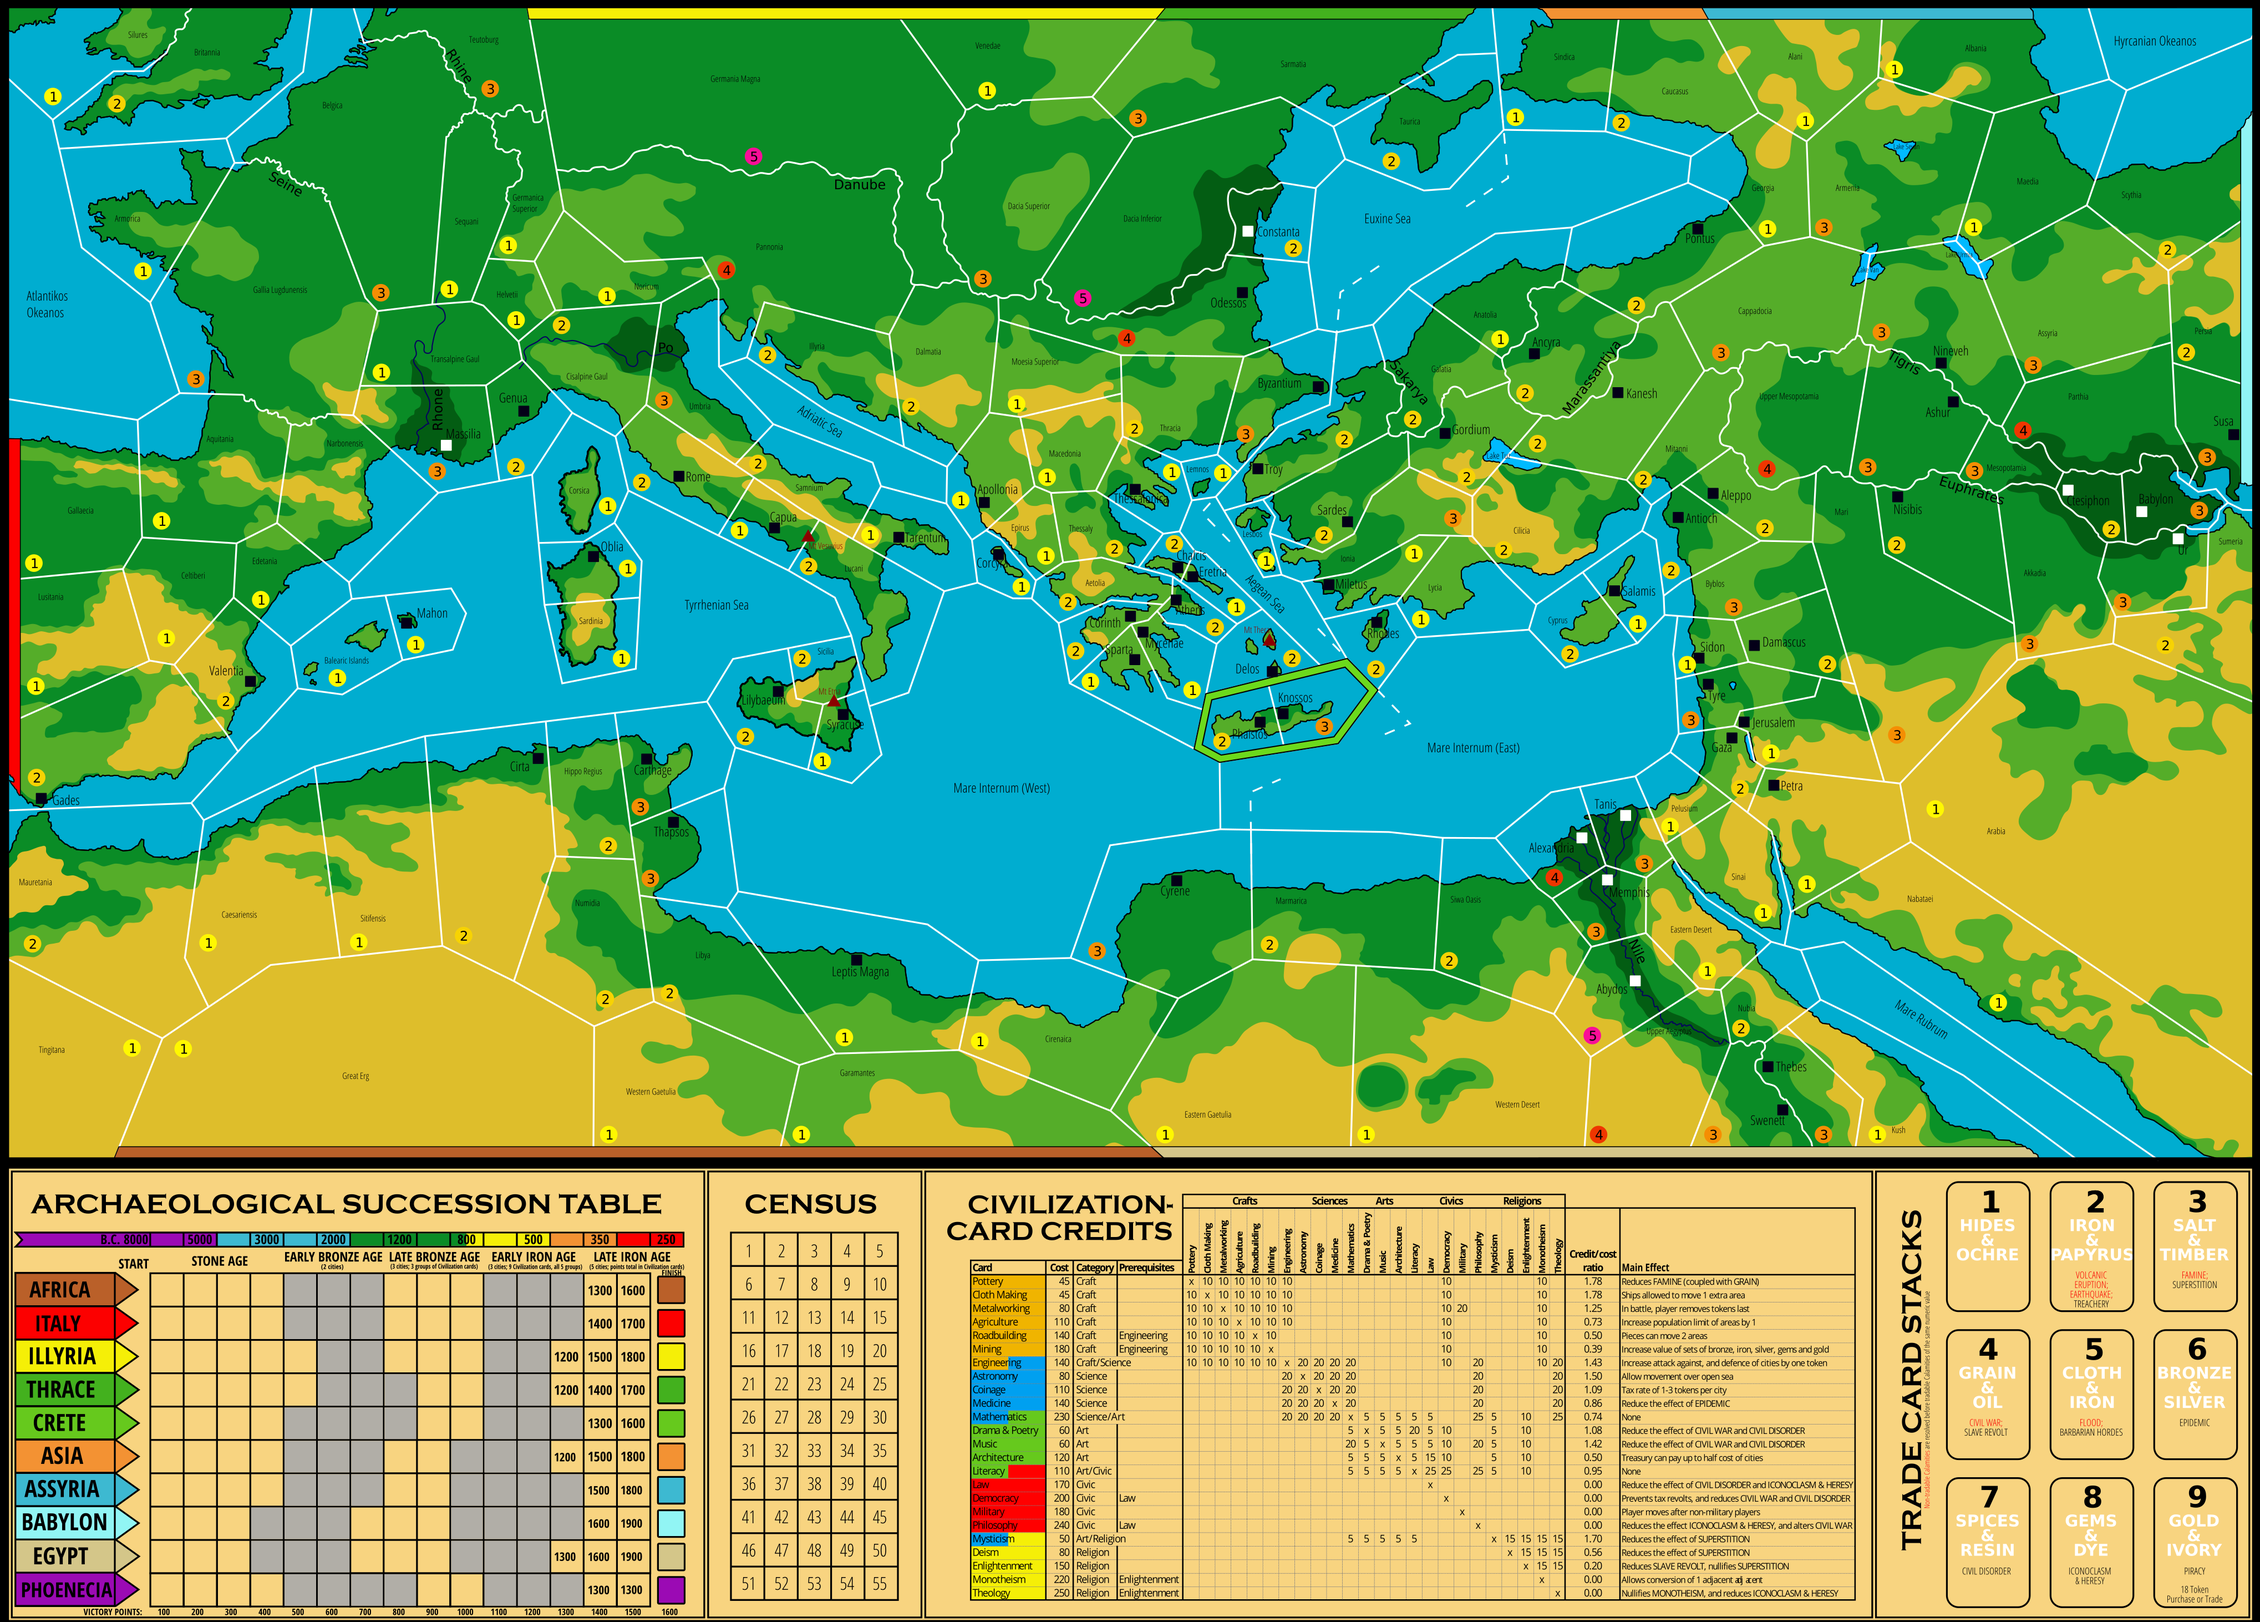
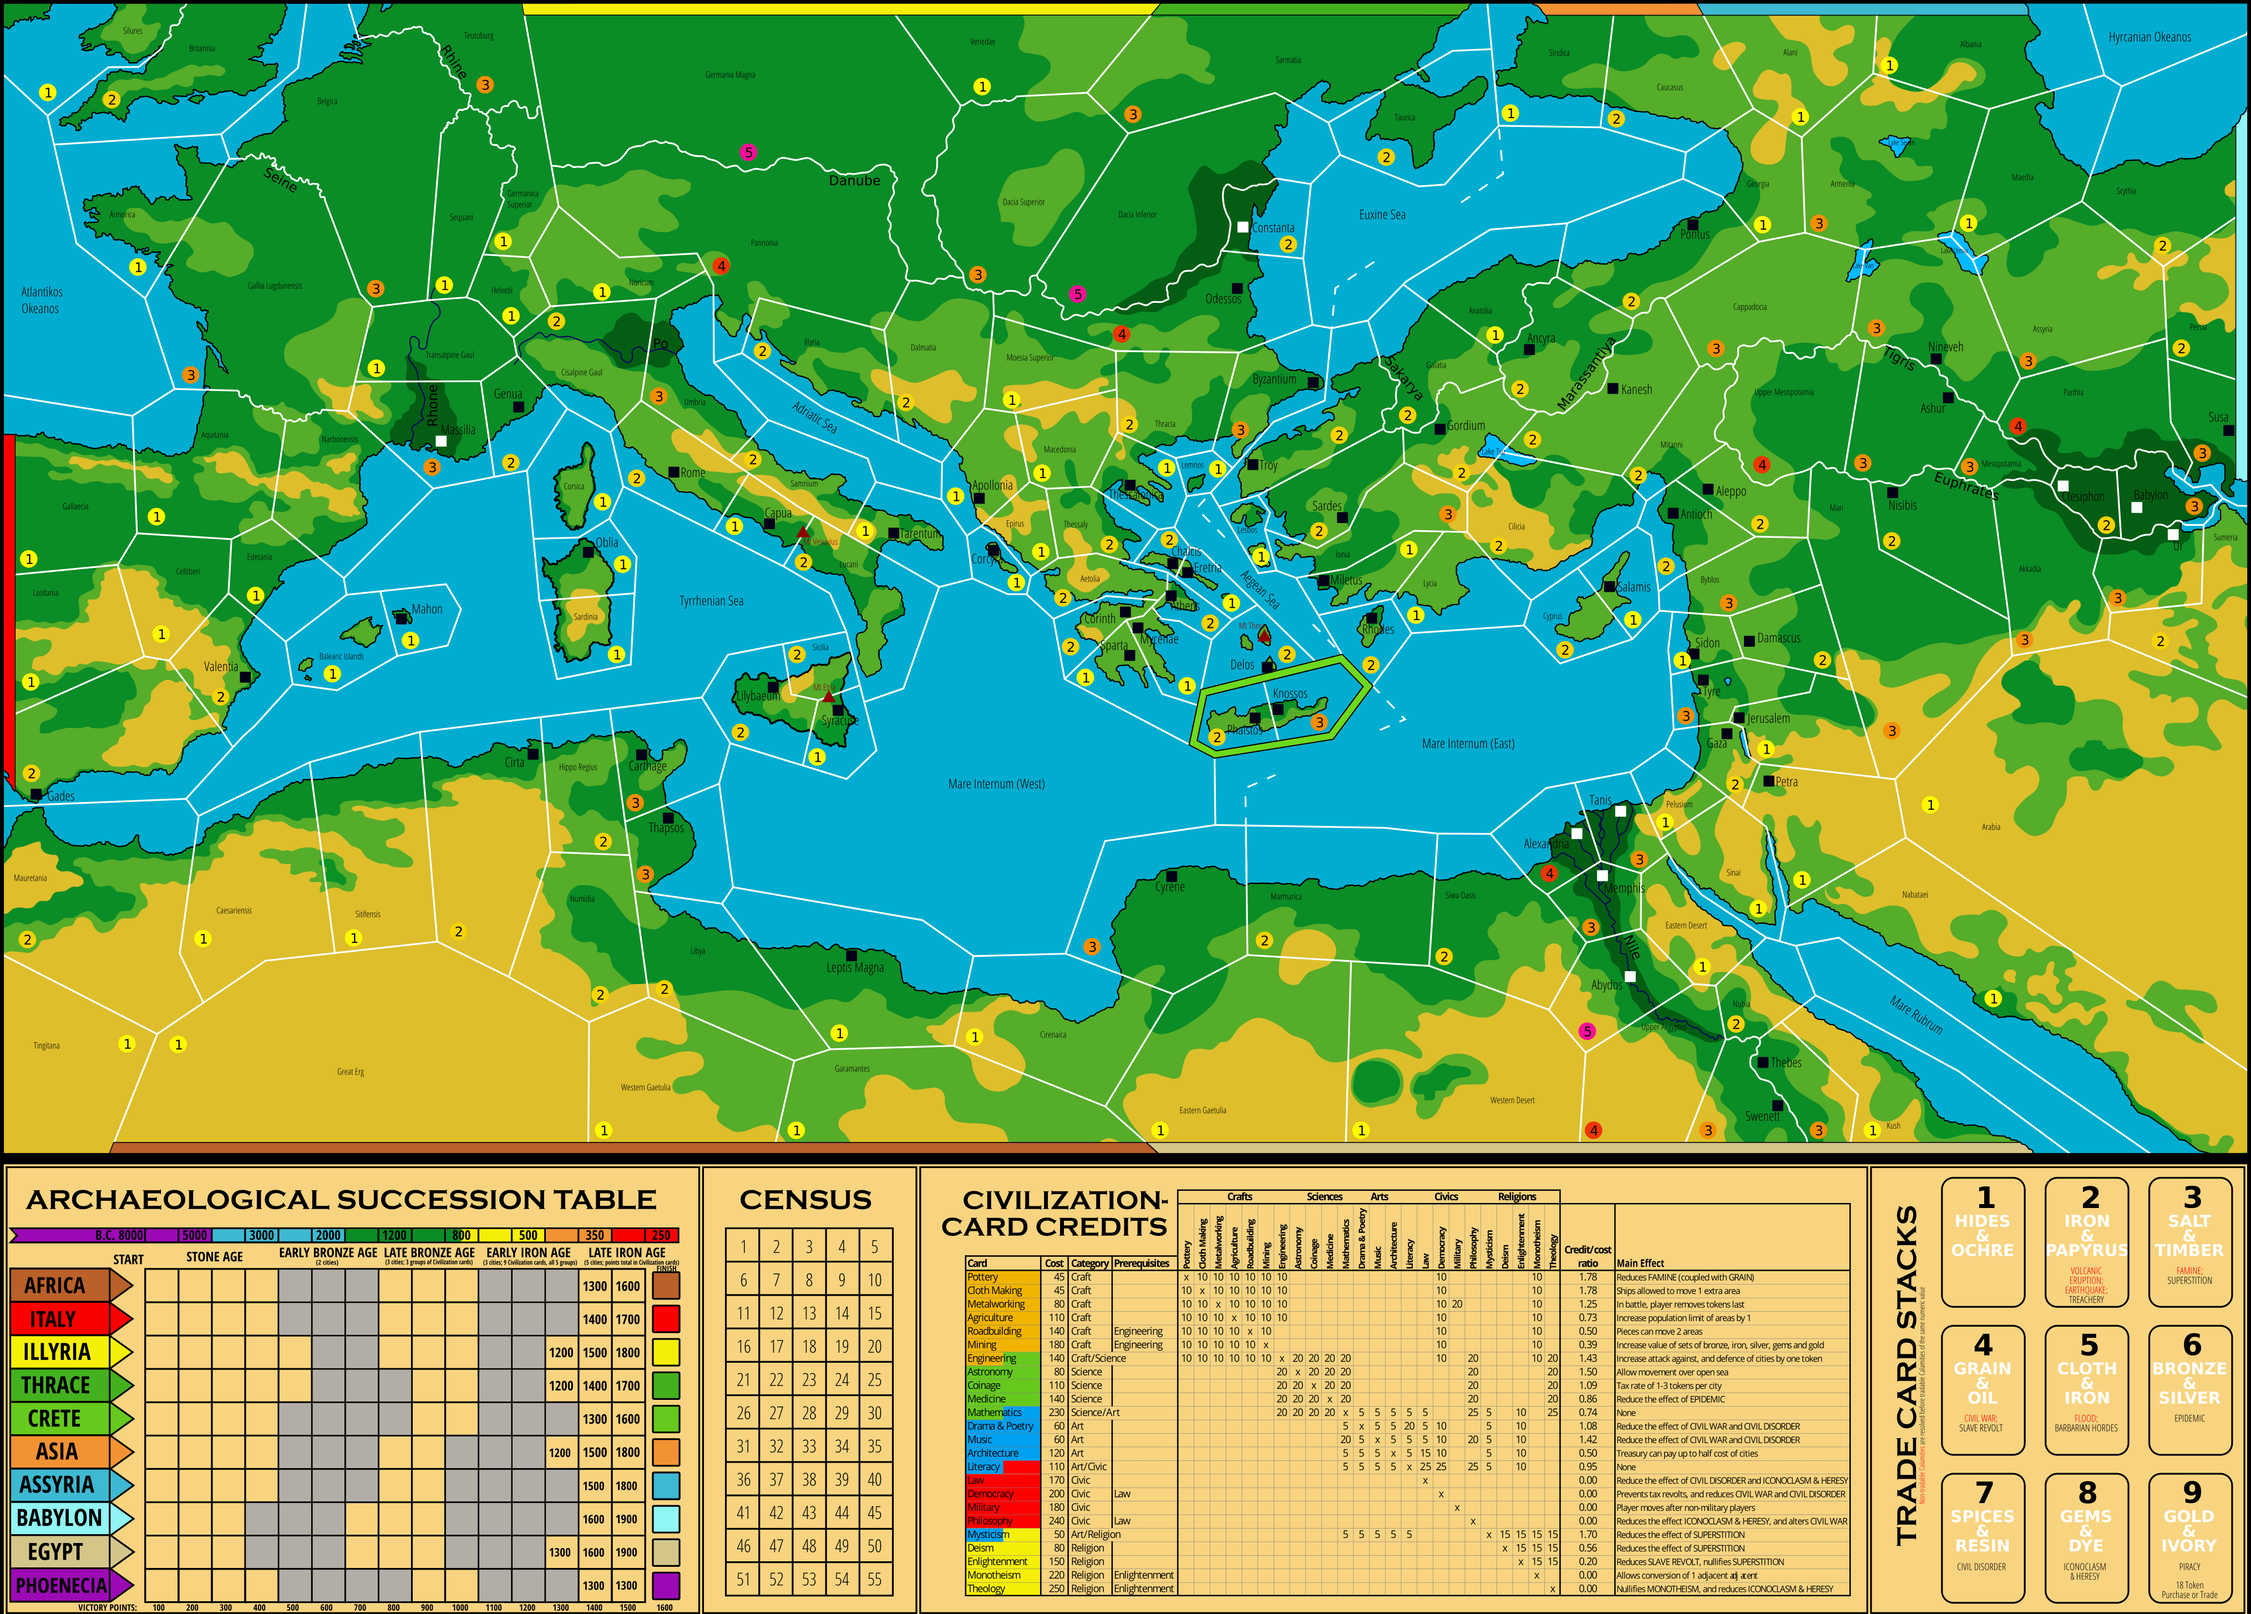
Improved the ast token code for re-usability. Added a spotter token to identify map locations. Fixed a coloring issue (arts and sciences were switched)

diff --git a/advciv.py b/advciv.py
@@ -2,16 +2,100 @@ from kivy.app import App
 from kivy.uix.boxlayout import BoxLayout
 from kivy.uix.scatter import Scatter
 from kivy.uix.label import Label
-from kivy.properties import NumericProperty
+from kivy.properties import NumericProperty, ListProperty
+from kivy.graphics.vertex_instructions import (Rectangle,
+                                               Ellipse,
+                                               Line)
+from kivy.graphics.context_instructions import Color
+from kivy.clock import Clock
+
+from math import sqrt
+
+map_locations = {'Great Erg': (680, 965),
+                 'Western Gaetulia': (1222, 931),
+                 'Garamantes': (1613, 897),
+                 'Leptis Magna': (1541, 1114),
+                 'Libya': (1256, 1137),
+                 'Numidia': (1018, 1195),
+                 'Thapsos': (1193, 1340),
+                 'Carthage': (1174, 1515),
+                 'Hippo Regius': (1021, 1452),
+                 'Cirta': (856, 1397),
+                 'Sitifensis': (645, 1359)}
+
+def map_to_window(map_pos):
+    app = App.get_running_app()
+    if not app.root:
+        return (0,0)
+    map_widget = app.root.ids['map']
+    window_pos = (map_widget.size[0]/4058.0*map_pos[0], map_widget.size[1]/2910.0*map_pos[1])
+    return window_pos
+
+def window_to_map(window_pos):
+    app = App.get_running_app()
+    map_widget = app.root.ids['map']
+    map_pos = (4058.0/map_widget.size[0]*window_pos[0], 2910.0/map_widget.size[1]*window_pos[1])
+    return map_pos
+
+def get_snap_pos(window_pos):
+    pos = window_to_map(window_pos)
+    territory, map_pos = min(map_locations.items(), key=lambda t: abs(sqrt((t[1][0]-pos[0])**2 + (t[1][1]-pos[1])**2)))
+    return territory, map_to_window(map_pos)
+
+class Spotter(Label):
+    def on_touch_up(self, touch):
+        res = super(Spotter, self).on_touch_up(touch)
+        if self.collide_point(*touch.pos):
+            map_pos = window_to_map(self.parent.pos)
+            print(f"{map_pos[0]:.1f},{map_pos[1]:.1f}")
+            if touch.is_double_tap:
+                territory, snap_pos = get_snap_pos(self.parent.pos)
+                self.parent.pos = snap_pos
+                print(f"Snapping to {territory}")
+        return res 
 
 class AstTokenWidget(Label):
     ast = NumericProperty(0)
+    track = NumericProperty(0)
+    color = ListProperty([0, 0, 0, 1])
+
+    def __init__(self, **kwargs):
+        super(AstTokenWidget, self).__init__(**kwargs)
+        Clock.schedule_once(self.init_bindings, 0)
+
+    def init_bindings(self, *args):
+        self.parent.parent.bind(size=self.update_size)        
+
+    def get_window_pos(self):
+        print('get window pos')
+        map_pos = (202 + self.ast*60, 22 + self.track*60)
+        return map_to_window(map_pos)
+
+    def get_window_size(self):
+        app = App.get_running_app()
+        if not app.root:
+            return (58,58)
+        map_widget = app.root.ids['map']
+        return (58/4058.0*map_widget.size[0], 58/2910.0*map_widget.size[1])
     
     def on_touch_down(self, touch):
         if self.collide_point(*touch.pos):
             self.ast += 1
             if self.ast > 15:
                 self.ast = 1
+
+    def on_track(self, instance, pos):
+        self.pos = self.get_window_pos()
+
+    def on_ast(self, instance, pos):
+        self.pos = self.get_window_pos()    
+
+    def update_size(self, instance, size):
+        app = App.get_running_app()
+        map_widget = app.root.ids['map']
+        self.size = (60/4058.0*map_widget.size[0], 60/2910.0*map_widget.size[1])
+        self.pos = self.get_window_pos()
+    
 
 
 class MapScatter(Scatter):
@@ -44,7 +128,7 @@ class AdvCivWidget(BoxLayout):
             map_scatter.pos = new_pos
             map_scatter.on_transform_with_touch(touch)
 
-        return super(BoxLayout, self).on_touch_down(touch)
+        return super(AdvCivWidget, self).on_touch_down(touch)
 
 
 class AdvCivApp(App):
